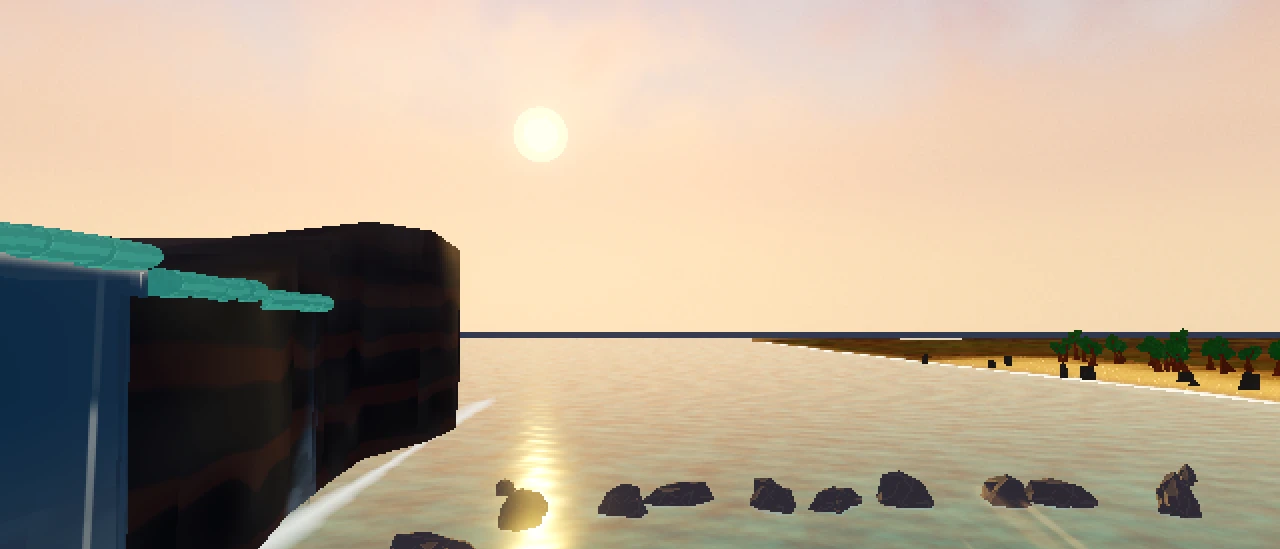
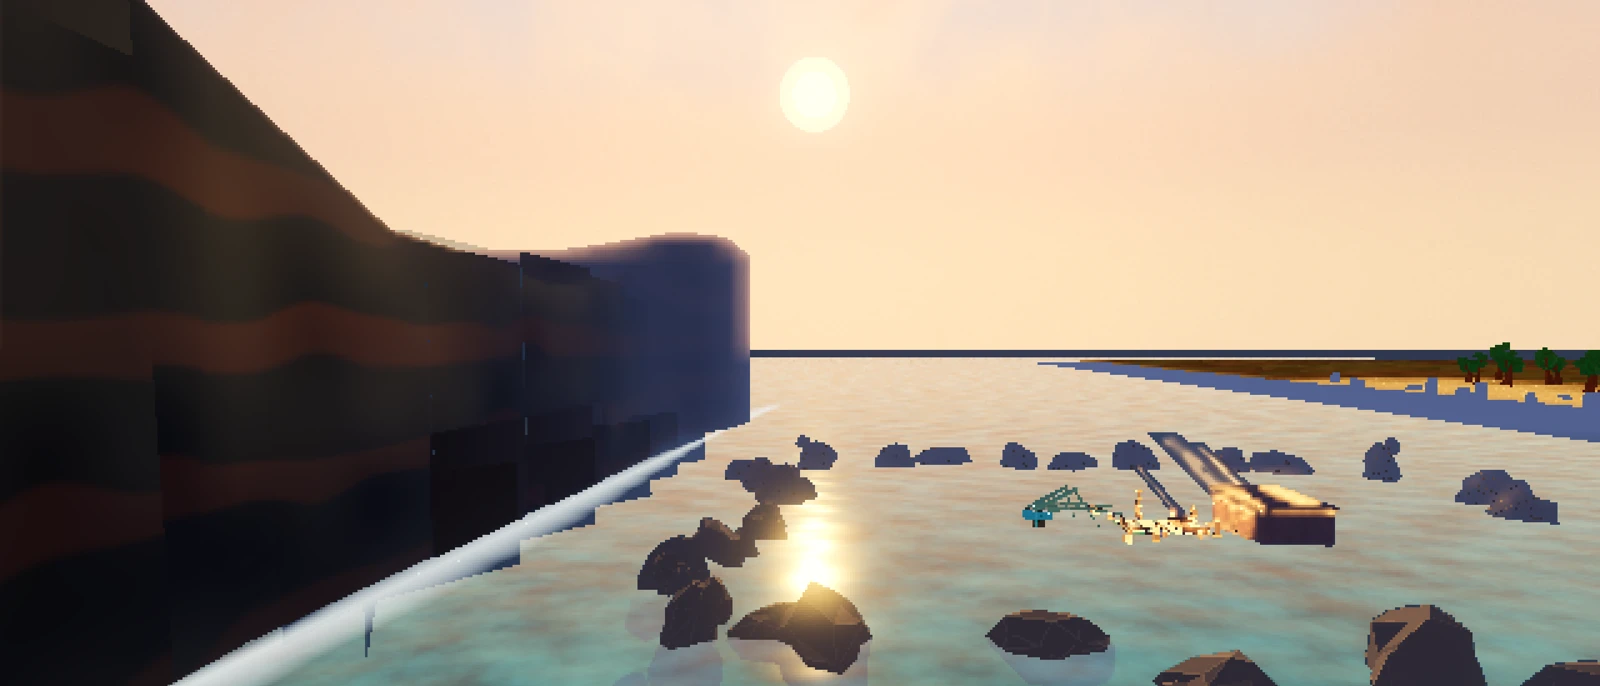
Vuelve la costa al atardecer con la cascada ya arreglada en el juego

diff --git a/src/OriginalScenes.tsx b/src/OriginalScenes.tsx
@@ -4,6 +4,7 @@ import './original-scenes.css';
 
 const PANORAMAS: { file: string; title: [string, string]; note: [string, string] }[] = [
  { file: 'templo-portico', title: ['Pórtico del templo', 'Temple portico'], note: ['Antorchas, piedra y agua de noche', 'Torches, stone and water at night'] },
+ { file: 'costa-atardecer', title: ['Costa al atardecer', 'Coast at sunset'], note: ['Llegada junto al acantilado', 'Arrival by the cliff'] },
  { file: 'costa-facetada', title: ['Costa facetada', 'Faceted coast'], note: ['Iluminación cel facetada', 'Faceted cel lighting'] },
 ];
 

diff --git a/tests/portfolio.spec.ts b/tests/portfolio.spec.ts
@@ -96,5 +96,5 @@ test('customer club demo joins, stamps once per day and sends each message',asyn
  await club.getByRole('button',{name:/Enviar campaña/}).click();
  await club.getByRole('button',{name:'Reservar mesa'}).click();
  await expect(club.locator('.ld-chat')).toContainText('4 personas');
- await expect(page.locator('.pano-thumbs button')).toHaveCount(2);
+ await expect(page.locator('.pano-thumbs button')).toHaveCount(3);
 });

diff --git a/public/media/SOURCES.md b/public/media/SOURCES.md
@@ -29,3 +29,6 @@ Recortes 21:9 sin retoque de capturas existentes en IA Rogue DEFINITIVE/screensh
 - isla-ciudad.webp: audit_levels/generated_cyber_square.png
 Descartadas: reference_video_analysis/* (vídeo de referencia, no es trabajo de Bruno) y las que llevan texto de depuración encima.
 La tarjeta de VibeMap usa un esquema dibujado (VibeSketch.tsx), rotulado «Esquema del resultado»: la app real sólo tiene tema claro.
+
+## Cascada arreglada (2026-09-27)
+- costa-atardecer.webp: nueva captura `IA Rogue DEFINITIVE/tmp/cascada_portafolio/costa_atardecer.png` (2560×1440, sin HUD, por la ruta real del juego) tras el arreglo de la cascada (commit b2464478 en Antigravity_Version: cara del acantilado recta detrás de la cortina y sin los cilindros de arriba). Recorte 21:9 desde y=40, escalado a 1600×686, sin retoque.
